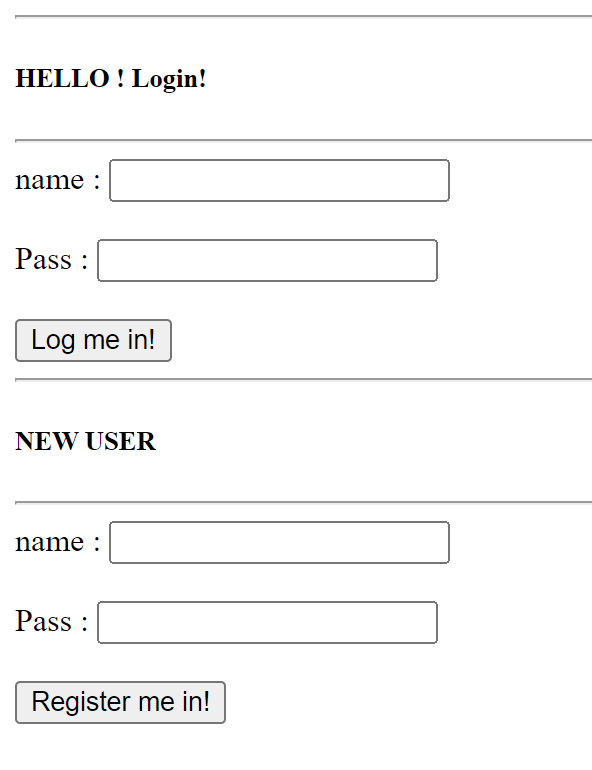
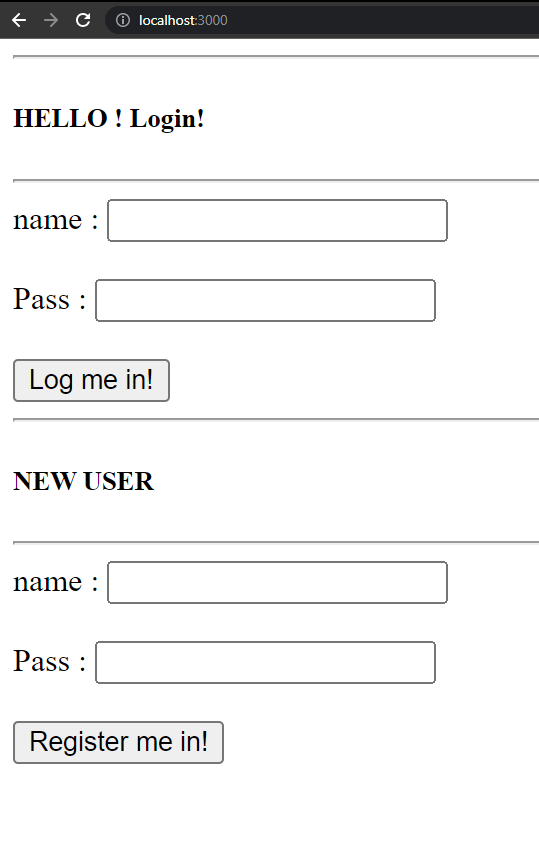
image update

diff --git a/readme.md b/readme.md
@@ -20,7 +20,7 @@
 > * NEDB for Database (a Node package that stores data into a .db file in json format)
 > * Made a small website that has two options - login and register
 > 	<div align="center">
->	<img src="Screenshots/Login_Auth.png" width="300" height="400">
+>	<img src="Screenshots/Login_Auth.png" width="300" height="500">
 >	</div>
 > 
 > > * If user logs in, the server checks if a matching JSON is in the database (Database/Users.db) 
